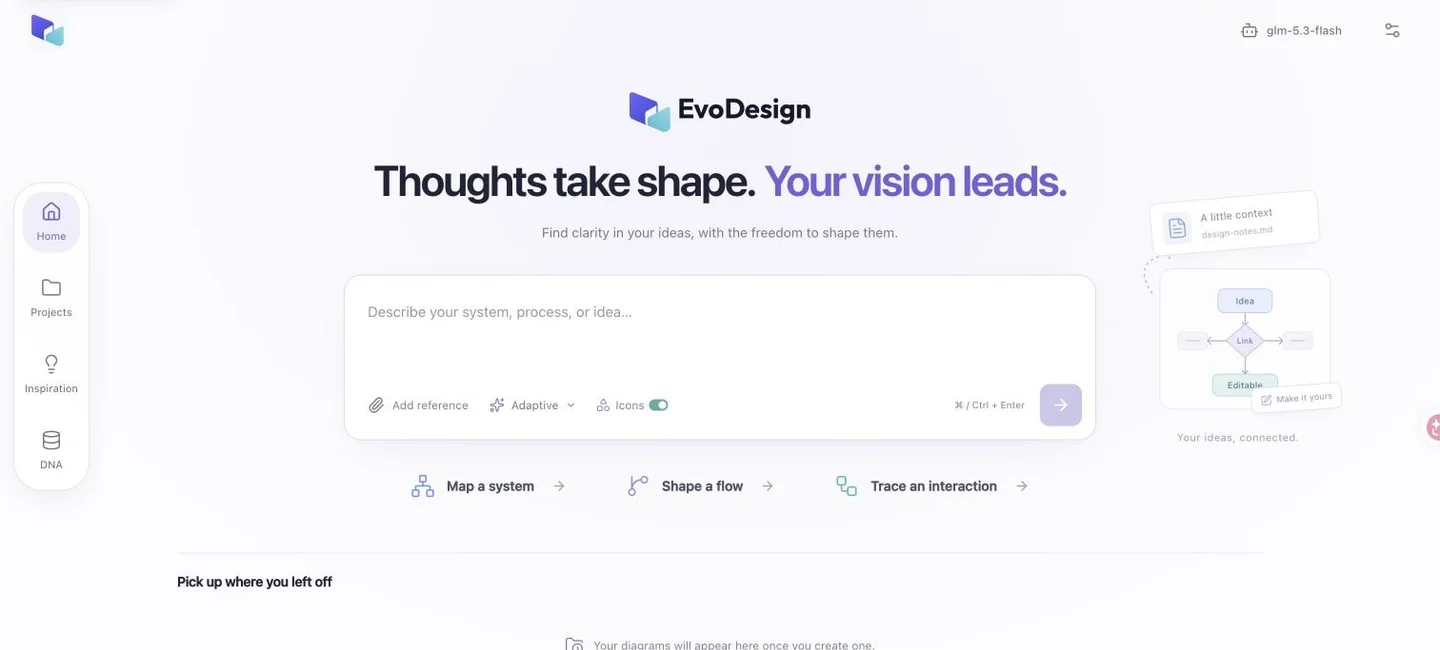
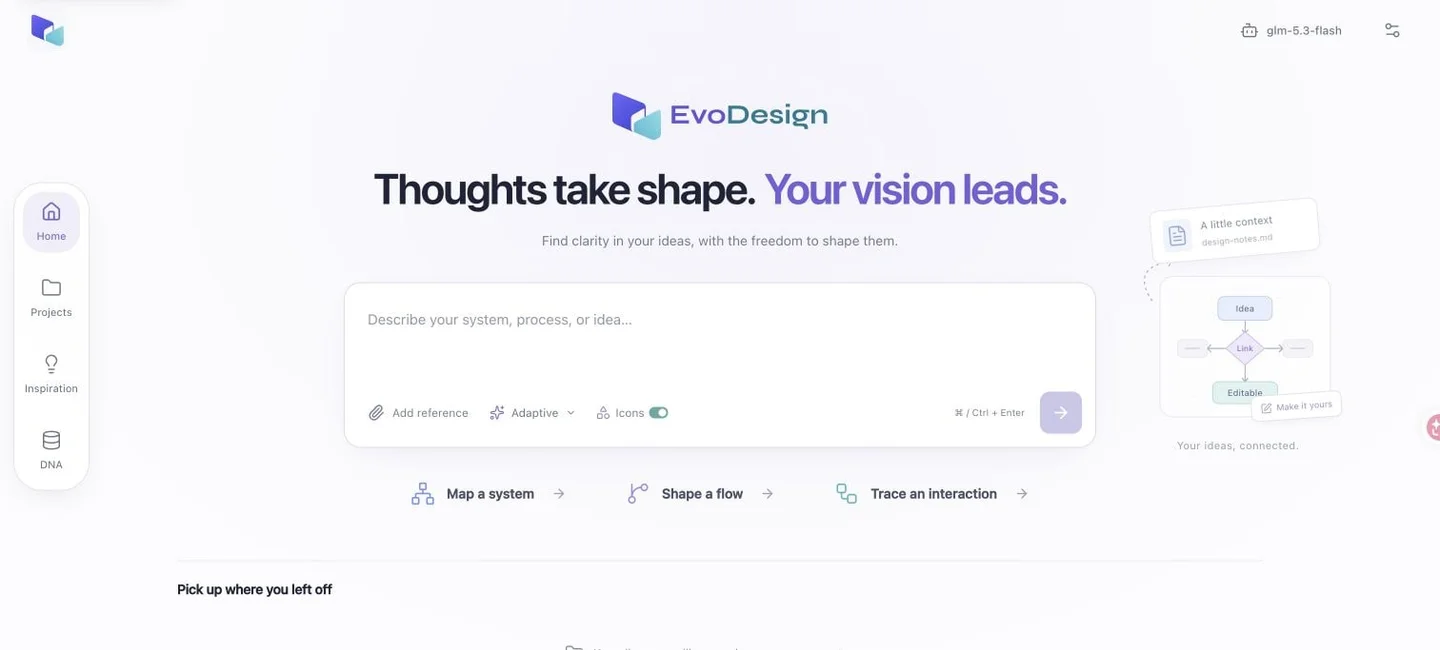
feat: add expressive two-tone brand lettering
* feat: style wordmark with Syne and distinct brand colors

* chore: normalize font license whitespace

* fix: unify remaining compact brand wordmarks

diff --git a/docs/index.html b/docs/index.html
@@ -1053,7 +1053,7 @@ html.page-hidden *,html.page-hidden *::before,html.page-hidden *::after { animat
   <header class="site-header">
     <div class="reading-progress" aria-hidden="true"></div>
     <nav class="nav wrap" aria-label="Main navigation">
-      <a class="wordmark" href="#" aria-label="EvoDesign home"><img class="brand-signature" src="assets/evodesign-lockup.svg" width="156" height="36" alt="EvoDesign"></a>
+      <a class="wordmark" href="#" aria-label="EvoDesign home"><img class="brand-signature" src="assets/evodesign-lockup.svg?v=syne700-1" width="156" height="36" alt="EvoDesign"></a>
       <div class="nav-links"><a href="#features">Features</a><a href="#playground">Workflow</a><a href="#get-started">Get started</a><a href="#overview">Research</a></div>
       <div class="nav-actions"><a class="nav-cite" href="https://evodesign.vercel.app/" target="_blank" rel="noopener noreferrer">Open Studio <span aria-hidden="true">↗</span></a><details class="mobile-contents"><summary aria-label="Page contents">Menu <span aria-hidden="true">⌄</span></summary><div class="contents-panel"><a href="#features">Features <span>01</span></a><a href="#playground">Workflow <span>02</span></a><a href="#get-started">Get started <span>03</span></a><a href="#overview">Research <span>04</span></a><a href="#research-details">Method &amp; results <span>05</span></a><a href="#questions">Questions <span>06</span></a><a href="#citation">Citation <span>07</span></a></div></details><a class="nav-github nav-paper" href="https://arxiv.org/abs/2604.09568" target="_blank" rel="noopener noreferrer">Paper <span aria-hidden="true">↗</span></a><a class="nav-github" href="https://github.com/GeminiLight/EvoDesign" target="_blank" rel="noopener noreferrer">GitHub <span aria-hidden="true">↗</span></a></div>
     </nav>
@@ -1062,7 +1062,7 @@ html.page-hidden *,html.page-hidden *::before,html.page-hidden *::after { animat
     <section class="hero hero-product wrap" aria-labelledby="hero-title">
       <div class="hero-copy">
       <div class="eyebrow hero-eyebrow"><span class="status-dot"></span> OPEN-SOURCE AI DIAGRAM WORKSPACE</div>
-      <h1 id="hero-title"><img class="hero-brand-signature" src="assets/evodesign-lockup.svg" width="496" height="115" alt="" aria-hidden="true"><span class="hero-brand-name">EvoDesign</span></h1>
+      <h1 id="hero-title"><img class="hero-brand-signature" src="assets/evodesign-lockup.svg?v=syne700-1" width="496" height="115" alt="" aria-hidden="true"><span class="hero-brand-name">EvoDesign</span></h1>
       <p class="paper-title product-promise">A personalized diagram workspace,<br><span>together with your Agent.</span></p>
       <p class="product-lead">Describe what you want to explain. Edit every element on the canvas, bring in your Agent, and keep your design preferences for the next diagram.</p>
       <div class="hero-actions"><a class="button primary" href="https://evodesign.vercel.app/" target="_blank" rel="noopener noreferrer">Open Studio <span aria-hidden="true">↗</span></a><a class="button secondary" href="https://github.com/GeminiLight/EvoDesign" target="_blank" rel="noopener noreferrer">GitHub <span aria-hidden="true">↗</span></a><a class="button secondary" href="https://arxiv.org/abs/2604.09568" target="_blank" rel="noopener noreferrer">Paper <span aria-hidden="true">↗</span></a></div>
@@ -1188,6 +1188,6 @@ html.page-hidden *,html.page-hidden *::before,html.page-hidden *::after { animat
     <section id="resources" class="resources wrap"><div><p class="eyebrow">CONTINUE EXPLORING</p><h2>Built to be <em>built upon.</em></h2><p>Explore the workspace, diagram engine <br>and your personal design memory.</p></div><div class="resource-links"><a class="resource-studio" href="https://evodesign.vercel.app/" target="_blank" rel="noopener noreferrer"><span><strong>Open EvoDesign Studio</strong><small>Try the shared demo · No installation</small></span><span aria-hidden="true">↗</span></a><a href="https://github.com/GeminiLight/EvoDesign" target="_blank" rel="noopener noreferrer"><span><strong>Project repository</strong><small>Source code available</small></span><span aria-hidden="true">↗</span></a><a href="https://arxiv.org/abs/2604.09568" target="_blank" rel="noopener noreferrer"><span><strong>Research paper</strong><small>arXiv:2604.09568</small></span><span aria-hidden="true">↗</span></a><a href="https://github.com/GeminiLight/EvoDesign/blob/main/docs/guides/design-memory.md" target="_blank" rel="noopener noreferrer"><span><strong>Personal design memory</strong><small>Preferences, examples &amp; portability</small></span><span aria-hidden="true">↗</span></a></div></section>
   </main>
   <dialog id="figure-dialog" class="figure-dialog" aria-labelledby="figure-title"><div class="dialog-heading"><div><span class="eyebrow" id="figure-eyebrow">PAPER FIGURE</span><h2 id="figure-title">Initial solution</h2></div><button id="close-figure" type="button" aria-label="Close diagram">×</button></div><div class="dialog-image"><img id="figure-image" alt=""></div><div class="figure-dialog-footer"><p id="figure-caption">Software development lifecycle with change control · Manuscript Figure 9</p><a id="figure-original" href="assets/refinement-before.webp" target="_blank" rel="noopener noreferrer">Open full resolution <span aria-hidden="true">↗</span></a></div></dialog>
-  <footer class="footer wrap"><a class="wordmark" href="#" aria-label="EvoDesign home"><img class="brand-signature" src="assets/evodesign-lockup.svg" width="138" height="32" alt="EvoDesign"></a><p>Editable diagrams. Evolving expertise.<span class="page-updated">Page updated <time datetime="2026-10-30">30 October 2026</time></span></p><a href="mailto:xionghui@ust.hk">Contact <span aria-hidden="true">↗</span></a><a href="https://github.com/GeminiLight/EvoDesign" target="_blank" rel="noopener noreferrer">GitHub <span aria-hidden="true">↗</span></a></footer>
+  <footer class="footer wrap"><a class="wordmark" href="#" aria-label="EvoDesign home"><img class="brand-signature" src="assets/evodesign-lockup.svg?v=syne700-1" width="138" height="32" alt="EvoDesign"></a><p>Editable diagrams. Evolving expertise.<span class="page-updated">Page updated <time datetime="2026-10-30">30 October 2026</time></span></p><a href="mailto:xionghui@ust.hk">Contact <span aria-hidden="true">↗</span></a><a href="https://github.com/GeminiLight/EvoDesign" target="_blank" rel="noopener noreferrer">GitHub <span aria-hidden="true">↗</span></a></footer>
 </body>
 </html>

diff --git a/frontend/src/styles/home.css b/frontend/src/styles/home.css
@@ -5,7 +5,7 @@
 .home-main { width: 100%; padding: 0 clamp(112px, 8vw, 144px) 24px; }
 .home-intro { width: min(100%, 1120px); margin: 0 auto; padding: 32px 0 46px; animation: home-arrive 440ms ease-out both; }
 .home-brand-lockup { display: flex; align-items: center; justify-content: center; gap: 13px; margin: 0 auto 20px; }
-.brand-lockup { display: block; width: 190px; height: auto; overflow: visible; }
+.brand-lockup { display: block; width: 226px; max-width: 100%; height: auto; overflow: visible; }
 .home-headline { margin: 0; text-align: center; font-size: clamp(32px, 3.15vw, 45px); font-weight: 650; line-height: 1.3; letter-spacing: -.045em; text-wrap: balance; }
 .home-headline > span { display: inline-block; margin-inline-start: .1em; color: #7360d9; }
 .dark .home-headline > span { color: #b4a3f2; }
@@ -145,7 +145,7 @@
   .home-intro { padding-top: 30px; padding-bottom: 28px; }
   .home-headline { font-size: clamp(28px, 5.5vw, 38px); line-height: 1.4; }
   .home-brand-lockup { gap: 10px; margin-bottom: 17px; }
-  .brand-lockup { width: 176px; }
+  .brand-lockup { width: 204px; }
   .home-intro-description { margin: 14px auto 25px; font-size: 12px; }
   .home-starters { display: grid; grid-template-columns: repeat(3, minmax(0, 1fr)); gap: 4px; margin-top: 20px; }
   .home-shortcut { min-width: 0; justify-content: center; gap: 8px; padding-inline: 4px; font-size: 12px; text-align: left; }

diff --git a/frontend/src/components/Header.tsx b/frontend/src/components/Header.tsx
@@ -8,6 +8,7 @@ import { useBackendAuth } from '../features/auth/BackendAuthProvider';
 import { rememberAuthReturnTo } from '../features/auth/authRedirect';
 import { readLocalStorage, writeLocalStorage } from '../utils/safeLocalStorage';
 import { ChoiceSelect } from './ChoiceSelect';
+import { BrandWordmark } from './BrandLockup';
 import { useBrowserModelLabel } from '../hooks/useBrowserModelLabel';
 
 const navBaseClass = 'relative inline-flex min-h-10 min-w-11 items-center justify-center rounded-lg px-3 text-sm font-medium transition-colors';
@@ -309,7 +310,7 @@ export const Header = ({
               alt="EvoDesign Logo"
               className="header-logo h-8 w-8"
             />
-            <span className={`header-wordmark hidden font-bold tracking-tight text-slate-900 dark:text-slate-100 sm:inline ${variant === 'landing' ? 'text-xl dark:text-white' : 'text-lg'}`}>Evo<span className="text-brand-600 dark:text-brand-400">Design</span></span>
+            <span className={`header-wordmark hidden font-bold tracking-tight text-slate-900 dark:text-slate-100 sm:inline ${variant === 'landing' ? 'text-xl dark:text-white' : 'text-lg'}`}><BrandWordmark /></span>
           </button>
 
           {pageTitle && <h1 className="header-page-title" data-page={location.pathname.slice(1)}>{pageTitle}</h1>}

diff --git a/frontend/src/components/BrandLockup.tsx b/frontend/src/components/BrandLockup.tsx
@@ -2,8 +2,18 @@
 export function BrandLockup() {
   return (
     <span className="brand-lockup">
-      <img src="/brand/evodesign-lockup.svg" alt="EvoDesign" width="276" height="64" className="block h-auto w-full dark:hidden" />
-      <img src="/brand/evodesign-lockup-dark.svg" alt="EvoDesign" width="276" height="64" className="hidden h-auto w-full dark:block" />
+      <img src="/brand/evodesign-lockup.svg?v=syne700-1" alt="EvoDesign" width="276" height="64" className="block h-auto w-full dark:hidden" />
+      <img src="/brand/evodesign-lockup-dark.svg?v=syne700-1" alt="EvoDesign" width="276" height="64" className="hidden h-auto w-full dark:block" />
+    </span>
+  );
+}
+
+/** Wordmark-only lockup for placements that already display the app icon. */
+export function BrandWordmark() {
+  return (
+    <span className="inline-block w-36 max-w-full align-middle">
+      <img src="/brand/evodesign-wordmark.svg?v=syne700-1" alt="EvoDesign" width="200" height="48" className="block h-auto w-full dark:hidden" />
+      <img src="/brand/evodesign-wordmark-dark.svg?v=syne700-1" alt="EvoDesign" width="200" height="48" className="hidden h-auto w-full dark:block" />
     </span>
   );
 }

diff --git a/frontend/src/pages/EmailAuthPage.tsx b/frontend/src/pages/EmailAuthPage.tsx
@@ -1,6 +1,7 @@
 import { useEffect, useMemo, useState } from 'react';
 import { useLocation, useNavigate } from 'react-router-dom';
 import { AuthPanel } from '../features/auth/AuthPanel';
+import { BrandWordmark } from '../components/BrandLockup';
 import { useBackendAuth } from '../features/auth/BackendAuthProvider';
 import { consumeAuthReturnTo, rememberAuthReturnTo, resolveAuthReturnTo } from '../features/auth/authRedirect';
 import { useLanguage } from '../i18n/LanguageProvider';
@@ -90,7 +91,7 @@ export const EmailAuthPage = () => {
                   <img src={logoSrc} alt="EvoDesign Logo" className="h-7 w-7" />
                 </div>
                 <div>
-                  <p className="text-sm font-semibold text-slate-900 dark:text-slate-100">EvoDesign</p>
+                  <BrandWordmark />
                   <p className="text-xs text-slate-500 dark:text-slate-400">{t('auth.tagline')}</p>
                 </div>
               </div>

diff --git a/frontend/public/brand/README.md b/frontend/public/brand/README.md
@@ -7,6 +7,7 @@ negative space across applications.
 - `evodesign-mark.svg`: transparent symbol; browser favicon and small placements.
 - `evodesign-icon.svg`, `evodesign-icon-dark.svg`: padded application icons.
 - `evodesign-lockup.svg`, `evodesign-lockup-dark.svg`: symbol and outlined wordmark.
+- `evodesign-wordmark.svg`, `evodesign-wordmark-dark.svg`: lettering for placements that already show the app icon.
 - `*-mono.svg`, `*-white.svg`: single-color variants for print or reversed use.
 - `evodesign-social.png`: 1200 × 630 sharing image.
 - `apple-touch-icon.png`: 180 × 180 home-screen icon.
@@ -19,8 +20,10 @@ their legacy URL aliases. After installing the renderer dependencies, run
 The script uses the renderer's existing Sharp package. Commit the source and
 generated files together; the app needs no image-rendering dependency at runtime.
 
-The wordmark uses Outfit glyph outlines under SIL OFL 1.1. Keep
-`Outfit-OFL.txt` with the assets. Vector wordmarks do not load a font or depend
+The wordmark uses Syne Bold 700 glyph outlines under SIL OFL 1.1. Keep
+`Syne-OFL.txt` with the assets. Evo uses blue-violet and Design uses teal;
+the dark-theme lockup uses lighter matching colors. HarfBuzz kerning is
+preserved in the outlined glyphs. Font source: https://github.com/google/fonts/tree/main/ofl/syne . Vector wordmarks do not load a font or depend
 on the viewer's installed fonts. Dark assets follow the application's explicit
 theme, including when it differs from the operating-system preference.
 

diff --git a/docs/assets/README.md b/docs/assets/README.md
@@ -13,7 +13,7 @@ The earlier `../screenshots/studio-home.png` and dark `workspace-preview.png` re
 
 ## Studio identity
 
-`studio-logo.svg`, `favicon.svg`, `evodesign-lockup.svg` and the social preview use the selected **C / Thought takes shape** identity (2 November 2026). Their geometry and outlined Outfit glyphs are generated from `shared/brand.json` with `node scripts/sync-brand.mjs --raster`. The same source generates the app, README, renderer and home-screen icons. See `../../frontend/public/brand/README.md` for variants and the font license. Historical screenshots retain their original interface; refresh active README and hero captures from the actual app when the UI changes.
+`studio-logo.svg`, `favicon.svg`, `evodesign-lockup.svg` and the social preview use the selected **C / Thought takes shape** identity (2 November 2026). Their geometry and outlined Syne Bold glyphs are generated from `shared/brand.json` with `node scripts/sync-brand.mjs --raster`. The two-color wordmark uses blue-violet for Evo and teal for Design, with lighter versions for dark backgrounds. The same source generates the app, README, renderer and home-screen icons. See `../../frontend/public/brand/README.md` for variants and the font license. Historical screenshots retain their original interface; refresh active README and hero captures from the actual app when the UI changes.
 
 ## Website verification
 

diff --git a/README.zh-CN.md b/README.zh-CN.md
@@ -1,9 +1,9 @@
 <div align="center">
 
 <picture>
-  <source media="(prefers-color-scheme: dark)" srcset="frontend/public/brand/evodesign-lockup-dark.svg">
-  <source media="(prefers-color-scheme: light)" srcset="frontend/public/brand/evodesign-lockup.svg">
-  <img src="frontend/public/brand/evodesign-lockup.svg" alt="EvoDesign 标志" width="276" height="64">
+  <source media="(prefers-color-scheme: dark)" srcset="frontend/public/brand/evodesign-lockup-dark.svg?v=syne700-1">
+  <source media="(prefers-color-scheme: light)" srcset="frontend/public/brand/evodesign-lockup.svg?v=syne700-1">
+  <img src="frontend/public/brand/evodesign-lockup.svg?v=syne700-1" alt="EvoDesign 标志" width="276" height="64">
 </picture>
 
 # EvoDesign

diff --git a/README.md b/README.md
@@ -1,9 +1,9 @@
 <div align="center">
 
 <picture>
-  <source media="(prefers-color-scheme: dark)" srcset="frontend/public/brand/evodesign-lockup-dark.svg">
-  <source media="(prefers-color-scheme: light)" srcset="frontend/public/brand/evodesign-lockup.svg">
-  <img src="frontend/public/brand/evodesign-lockup.svg" alt="EvoDesign logo" width="276" height="64">
+  <source media="(prefers-color-scheme: dark)" srcset="frontend/public/brand/evodesign-lockup-dark.svg?v=syne700-1">
+  <source media="(prefers-color-scheme: light)" srcset="frontend/public/brand/evodesign-lockup.svg?v=syne700-1">
+  <img src="frontend/public/brand/evodesign-lockup.svg?v=syne700-1" alt="EvoDesign logo" width="276" height="64">
 </picture>
 
 # EvoDesign
